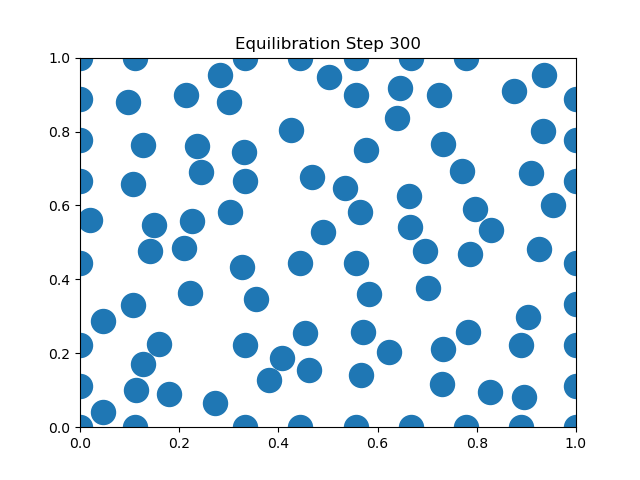
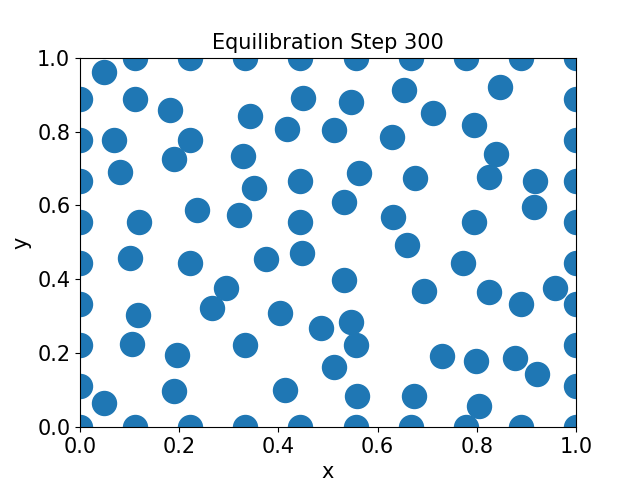
pair correlation graphs

diff --git a/pair_correlation3.py b/pair_correlation3.py
@@ -1,0 +1,344 @@
+import numpy as np
+import random
+import matplotlib.pyplot as plt
+from PIL import Image
+import glob
+import os
+#eta is a random number
+#delta is the amplitude of displacement
+#moves are accepted/rejected when particles overlap/are separate
+#this code is assuming no overlap between particles - purely for generating the moves
+
+def mc_move(x, y, r, d, L):
+
+    N = len(x)
+    r=0.03
+
+
+    # Pick a random particle
+
+    i = np.random.randint(N)
+    old_x = x[i]
+    old_y = y[i]
+
+    # Save old position
+    #if x[i]>=0 and x[i]<=1:
+     #   old_x = x[i]
+    #else:
+     #   old_x = abs(x[i])%1
+    #if y[i]>=0 and y[i]<=1:
+     #   old_y = y[i]
+    #else:
+     #   old_y = abs(y[i])%1
+
+
+    # Propose move
+    #dx, dy = np.random.uniform(-delta, delta, size=2)
+    eta = random.random()
+    x[i] += d*(eta-0.5)
+    eta = random.random()
+    y[i] += d*(eta-0.5)
+    if x[i]>1 or x[i]<0:
+        x[i] = abs(x[i])%L
+    if y[i]>1 or y[i]<0:
+        y[i]=abs(y[i])%L
+
+
+    # Compute distances to all other particles
+
+    # Ignore self by setting its distance large
+        
+    dx_all = x[i] - x
+    dx_all -= L * np.round(dx_all / L)
+
+    dy_all = y[i] - y
+    dy_all -= L * np.round(dy_all / L)
+
+    dist2 = dx_all**2 + dy_all**2
+    r_sum2 = 4*(r)**2
+    dist2[i] = np.inf
+    # Check for overlap
+    if np.any(dist2 < r_sum2):
+        # Reject move → restore old position
+        x[i], y[i] = old_x, old_y
+        return x, y, False  # move rejected
+
+    # No overlap → accept move
+
+    return x, y, True
+
+points_whole_ax = 5 * 0.8 * 72    # 1 point = dpi / 72 pixels
+r = 0.03
+a = np.pi*r**2
+points_radius = 2 * r / 1.0 * points_whole_ax
+# Setup
+### GIF ADDITION ###
+os.makedirs("frames", exist_ok=True)
+frame_index = 0
+total_steps = 20000   # number of MC attempts
+save_every = 100     # save a frame every N steps
+### EQUILIBRATION GIF SETUP ###
+os.makedirs("frames_equil", exist_ok=True)
+eq_frame_index = 0
+save_every_equil = 100     # save a frame every 100 steps
+d = 0.1
+L = 1.0
+
+# Random initial positions
+#file = 'Coordinates.dat'
+#xvals = np.array([])
+#yvals = np.array([])
+
+#x,y = np.loadtxt(file, unpack=True)
+#x = np.append(xvals,np.array(x))
+#y = np.append(yvals,np.array(y))
+
+
+# --- lattice initialization ---
+Nx = 10   # 10×10 = 100 particles
+Ny = 10
+x = np.zeros(Nx*Ny)
+y = np.zeros(Nx*Ny)
+
+# spacing between particle centers
+spacing = 2.2 * r   # > 2r prevents overlap
+
+index = 0
+for i in range(Nx):
+    for j in range(Ny):
+        x[index] = i * spacing
+        y[index] = j * spacing
+        index += 1
+
+# Normalise to box of size L
+x /= max(x)
+y /= max(y)
+#plt.scatter(x,y,s=points_radius**2)
+def find_overlaps(x, y, r):
+    x = np.asarray(x)
+    y = np.asarray(y)
+    r = np.asarray(r)
+
+    N = len(x)
+    overlaps = []
+
+    # Handle single radius case
+    if r.ndim == 0:
+        r = np.full(N, r)
+
+    for i in range(N):
+        dx = x[i] - x[i+1:]
+        dy = y[i] - y[i+1:]
+        dist = np.sqrt(dx**2 + dy**2)
+        r_sum = r[i] + r[i+1:]
+        overlapping = np.where(dist < r_sum)[0]
+        for j in overlapping:
+            overlaps.append((i, i + 1 + j))
+    return overlaps
+dr=0.1*r
+N=len(x)
+def pairCorrelationFunction_2D(x, y, L, rMax, dr):
+    rho = N/L**2
+    #r=0.3
+    nBins = int(rMax / dr)
+    r_array = np.arange(dr/2, rMax, dr)  # bin centers
+    g_r = np.zeros(len(r_array))  # will store g(r) values
+    
+    # Compute distances and bin them
+    for i in range(N):
+        for j in range(i+1, N):  # Only j > i to avoid double counting
+            # Periodic boundary conditions
+            dx = x[i] - x[j]
+            dy = y[i] - y[j]
+            
+            dx -= L * np.round(dx / L)
+            dy -= L * np.round(dy / L)
+            
+            radius = np.sqrt(dx**2 + dy**2)
+    
+            if radius < rMax and radius>2*r:
+                bin_idx = int(radius / dr) # bin number - what bin is the particle pair going to
+                if bin_idx < len(g_r): #ensures no over-counting
+                    g_r[bin_idx] += 2  # Count for both i-j and j-i - this is just the number of particles at this point
+    
+    # Normalize by ideal gas
+    for i, r_val in enumerate(r_array):
+        # Ideal number in shell: n_ideal = rho * 2*pi*r*dr
+        n_ideal = rho * 2 * np.pi * r_val * dr
+        # Divide by N (total particles) and by n_ideal
+        g_r[i] /= (N*n_ideal)
+    
+    return r_array, g_r
+
+def averaged_g_r(x, y, r, d, L, rMax, dr, num_sims, equil_steps):
+
+    g_r_sum = None
+
+    # Make copies so the original arrays are not modified
+    x_sim = np.copy(x)
+    y_sim = np.copy(y)
+
+    for sim in range(num_sims):
+        # Equilibrate: perform MC moves
+        for step in range(equil_steps):
+            x_sim, y_sim, _ = mc_move(x_sim, y_sim, r, d, L)
+
+        # Compute g(r) for this snapshot
+        r_vals, g_r_single = pairCorrelationFunction_2D(x_sim, y_sim, L, rMax, dr)
+
+        # Accumulate
+        if g_r_sum is None:
+            g_r_sum = g_r_single
+        else:
+            g_r_sum += g_r_single
+
+    # Average over snapshots
+    g_r_avg = g_r_sum / num_sims
+
+    return r_vals, g_r_avg
+
+
+
+# Perform 1000 MC moves
+overlaps = find_overlaps(x, y, r)
+print("there are", len(overlaps), "overlaps")
+accepted_moves = 0
+for step in range(1000):
+    if step % save_every_equil == 0:
+        plt.figure()
+        plt.scatter(x, y, s=points_radius**2)
+        plt.xlabel('x', fontsize = 15)
+        plt.ylabel('y', fontsize = 15)
+        plt.xticks(fontsize = 15)
+        plt.yticks(fontsize = 15)
+        plt.xlim(0, L); plt.ylim(0, L)
+        plt.title(f"Equilibration Step {step}", fontsize = 15)
+        plt.savefig(f"frames_equil/eq_{eq_frame_index:04d}.png")
+        plt.close()
+        eq_frame_index += 1
+    x, y, accepted = mc_move(x, y, r, d, L)
+    if accepted:
+        accepted_moves += 1
+    if step%100 == 0 and step!=0:
+        #print(step)
+        #print(accepted_moves)
+        acceptance_ratio = accepted_moves/step
+        print("Acceptance ratio (no modification): ", acceptance_ratio)
+        #can always modify this so it just does 1 cycle
+
+while acceptance_ratio>0.5 or acceptance_ratio<0.25:
+    if acceptance_ratio>0.5:
+        accepted_moves=0
+        d = d*1.05
+        for j in range(0,10000):
+            if j % save_every_equil == 0:
+                plt.figure()
+                plt.scatter(x, y, s=points_radius**2)
+                plt.xlabel('x')
+                plt.ylabel('y')
+                plt.xlabel('x', fontsize = 15)
+                plt.ylabel('y', fontsize = 15)
+                plt.xticks(fontsize = 15)
+                plt.yticks(fontsize = 15)
+                plt.xlim(0, L); plt.ylim(0, L)
+                plt.title(f"Tuning Step {j}", fontsize = 15)
+                plt.savefig(f"frames_equil/eq_{eq_frame_index:04d}.png")
+                plt.close()
+                eq_frame_index += 1
+            x,y,accepted = mc_move(x,y,r,d,L)
+            if accepted:
+                accepted_moves+=1
+        acceptance_ratio = accepted_moves/10000
+        print("Acceptance ratio (large):", acceptance_ratio)
+    if acceptance_ratio<0.25:
+        accepted_moves = 0
+        d = d*0.95
+        for j in range(0,10000):
+            if j % save_every_equil == 0:
+                plt.figure()
+                plt.scatter(x, y, s=points_radius**2)
+                plt.xlabel('x')
+                plt.ylabel('y')
+                plt.xlabel('x', fontsize = 20)
+                plt.ylabel('y', fontsize = 20)
+                plt.xticks(fontsize = 20)
+                plt.yticks(fontsize = 20)
+                plt.xlim(0, L); plt.ylim(0, L)
+                plt.title(f"Tuning Step {j}")
+                plt.savefig(f"frames_equil/eq_{eq_frame_index:04d}.png")
+                plt.close()
+                eq_frame_index += 1
+            x,y,accepted = mc_move(x,y,r,d,L)
+            if accepted:
+                accepted_moves+=1
+
+        acceptance_ratio = accepted_moves/10000
+        print("Acceptance ratio (small):", acceptance_ratio)
+print("final acceptance ratio:", acceptance_ratio)
+
+N = len(x)
+dr_values = [0.1*r,0.2*r,0.3*r,0.4*r,0.5*r]
+dr_text = ['dr = 0.1r', 'dr = 0.2r', 'dr = 0.3r', 'dr = 0.4r', 'dr = 0.5r']
+g_r_results = []
+
+print("\nCalculating g(r) for different dr values...")
+for dr in dr_values:
+    print(f"  Computing with dr = {dr:.4f}...")
+    r_vals, g_r = averaged_g_r(x,y,r,d,L,L/2,dr,num_sims=50, equil_steps=1000)
+    g_r_results.append((r_vals, g_r, dr))
+
+plt.figure(figsize=(5,5))
+fig = plt.gcf()
+dpi = fig.get_dpi()
+colors = ['grey', 'green', 'red', 'purple', 'orange', 'yellow']
+for i, (r_vals, g_r, dr) in enumerate(g_r_results):#enumerate removes the need for a counter variable - improves efficiency
+    plt.plot(r_vals, g_r, color=colors[i], linewidth=1, label = dr_text[i])
+
+plt.xlabel('r')
+plt.ylabel('g(r)')
+plt.title('Pair Correlation Function')
+plt.grid(False)
+plt.axhline(y=1, color='r', linestyle='--', alpha=0.5, label='Ideal gas')
+plt.legend()
+plt.show()
+
+
+### GIF BUILDING ###
+frames = []
+files = sorted(glob.glob("frames/*.png"))
+
+for f in files:
+    frames.append(Image.open(f))
+
+frames[0].save(
+    "simulation.gif",
+    save_all=True,
+    append_images=frames[1:],
+    duration=200,
+    loop=0
+)
+
+print("GIF saved as simulation.gif")
+
+### BUILD EQUILIBRATION GIF ###
+eq_frames = []
+files = sorted(glob.glob("frames_equil/*.png"))
+
+for f in files:
+    eq_frames.append(Image.open(f))
+
+eq_frames[0].save(
+    "equilibration.gif",
+    save_all=True,
+    append_images=eq_frames[1:],
+    duration=200,
+    loop=0
+)
+
+print("Equilibration GIF saved as equilibration.gif")
+print("optimal value of d: ", d)
+overlaps = find_overlaps(x, y, r)
+print("there are", len(overlaps), "overlaps")
+print("Overlapping pairs:", overlaps)
+#plt.scatter(x,y,s=points_radius**2)
+#plt.show()
